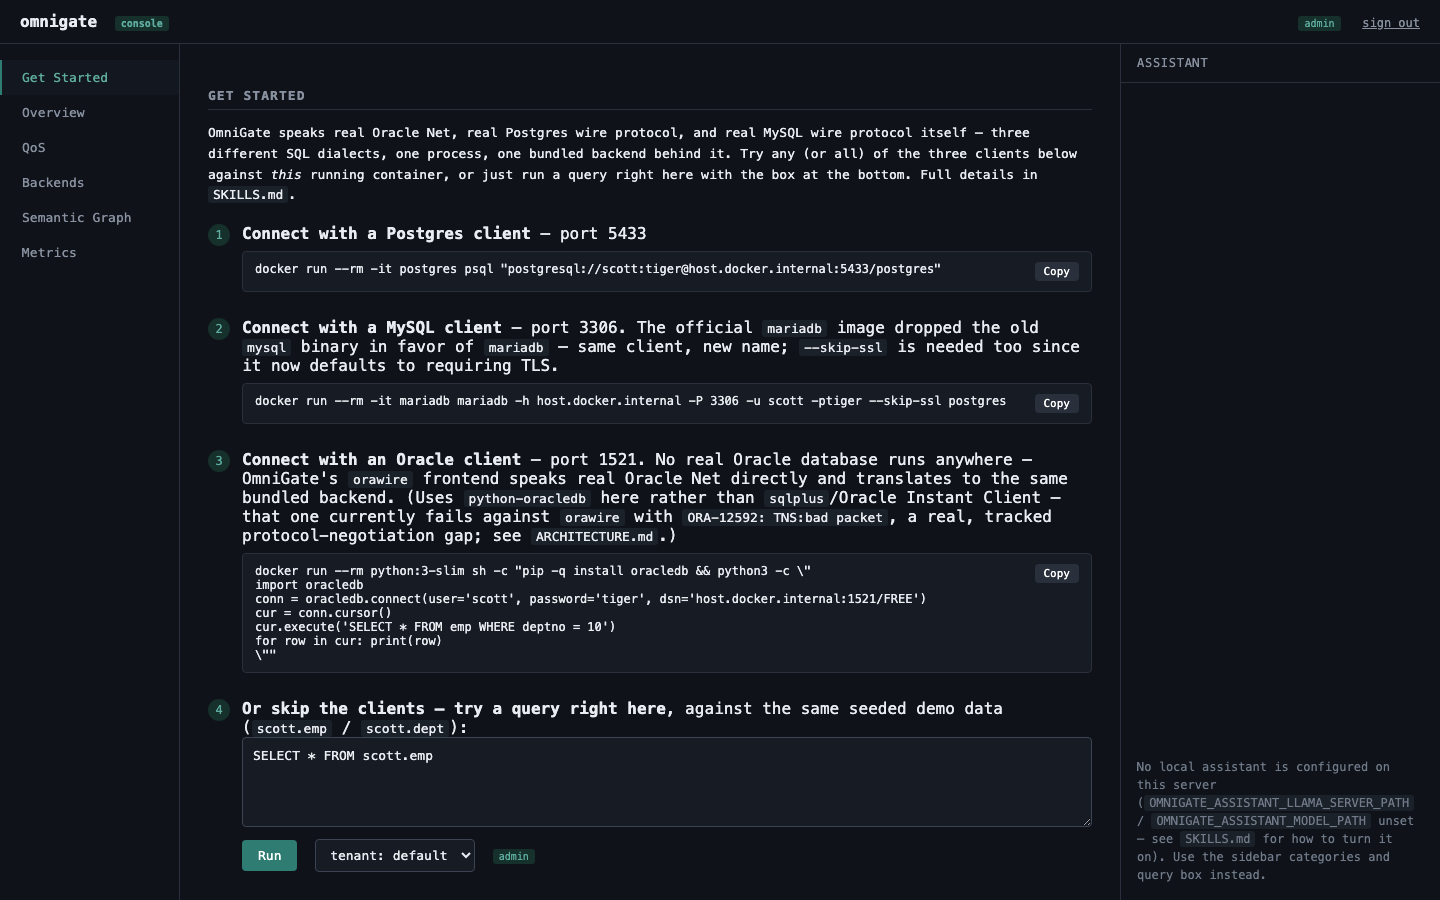
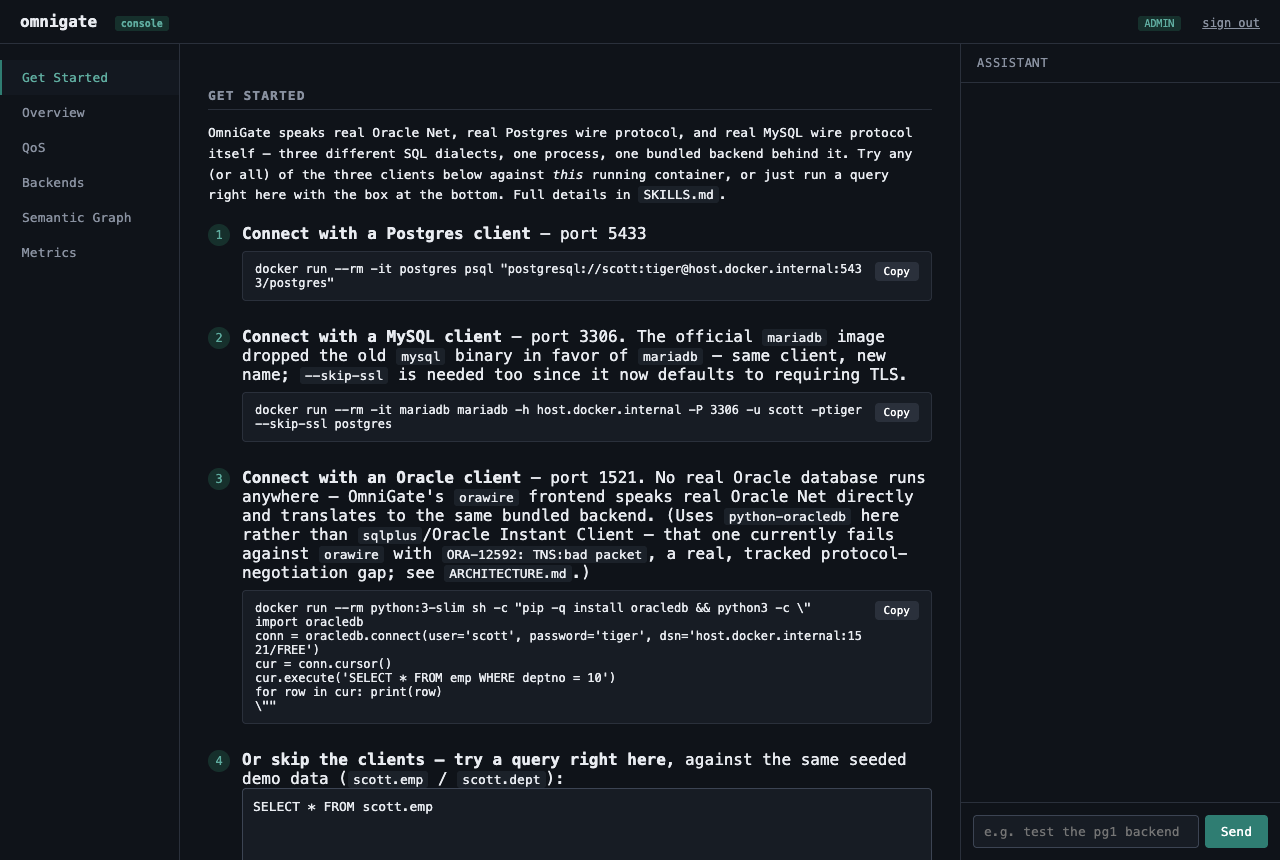
docs: refresh screenshots, remove stale architecture.svg, add admin console screenshot
- screenshot-console.png replaced with a fresh capture (real, authenticated,
  via headless Chrome against the live container -- not staged).
- New screenshot-admin-sources.png added, showing the redesigned Data
  Sources page (labeled-card layout, 21-type dropdown, inline group
  assignment) and embedded in the README's admin console section.
- Removed docs/architecture.svg -- unreferenced by README/SKILLS.md,
  superseded by architecture2.png.

diff --git a/README.md b/README.md
@@ -58,6 +58,12 @@ Everything below is a real, working page in this image — not a mockup. Each on
 config, applied immediately, no restart, persisted so it survives a container restart (see
 [Config storage](#config-storage)).
 
+<img src="docs/screenshot-admin-sources.png" alt="OmniGate's Data Sources admin page — a labeled card per data source (Name, Type, User, Password, Connection string, Group), a type dropdown covering 21 source kinds, and Discover schemas / remove actions.">
+
+*(The Data Sources page — add a source, pick its type from the dropdown for a real sample
+connection string, test it live with "Discover schemas," and assign it to a group, all without
+leaving the page.)*
+
 | Page | What it does |
 |---|---|
 | **Data sources** | Add/edit backends. A type dropdown (Postgres, Oracle, MySQL, SQL Server, Snowflake, Redshift, BigQuery, Databricks, Aurora, S3, S3-compatible, Azure Blob, Salesforce, HubSpot, ServiceNow, YouTube, GitHub, Microsoft Graph/SharePoint, generic REST/JDBC) fills in a real sample connection string per source. "Discover schemas" tests a connection live before you save it. |
